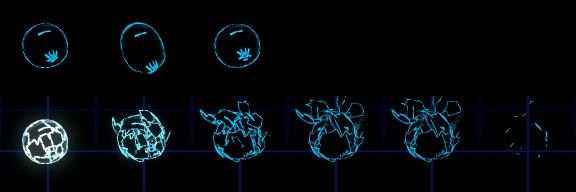
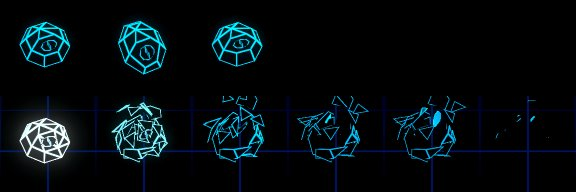
feat(champions): the slime's mesh designed for the edge look: the vendor's smooth dome, which the trailer drew as a soft rim with a lashed eye (a bubble or one of the game's rings), rebuilt as a low-poly blob of eight sides with every edge drawn, sagging over a base tucked under its bulge and closin

diff --git a/rhythm_champions/tools/recipes/monster/slime.py b/rhythm_champions/tools/recipes/monster/slime.py
@@ -1,0 +1,217 @@
+"""The slime (ps-6y2.32): the vendor's smooth dome rebuilt as a low-poly blob that looks up with one big eye.
+
+The trailer's drawing of the vendor slime has no facets: its dome's 470 even triangles never crease past 24 degrees,
+so it draws as a soft rim (a bubble, an egg or one of the game's rings) with the eye socket's fan of creases as
+radiating lashes (a sun icon at game size), and nothing says creature unless a slime faces the camera. What changes:
+
+- The body: eight sides, every edge drawn (a true wireframe), 1.5 m across and 0.9 m tall. It sags: widest low down,
+  over a base tucked under it, so its lower outline is a bulge and no upright band reads as a pot or a jelly mould;
+  it narrows to a shoulder ring and closes under a crown, a face in front and a lopsided corner behind, rather than
+  an apex, whose spokes read as an umbrella or a spider web from the game camera. It is 10% longer behind, where the
+  vendor's body drags.
+- The face: one quiet panel on the top front, tilted 55 degrees up, so the game camera sees the eye from every
+  side and not only when a slime faces it. The eye is an almond lens 0.53 m across (a third of the body, more than
+  twice the vendor's eye), drawn by its rim alone, with a raised slit pupil whose sides fill it in at game size. It
+  is printed on the face: each of its vertices blends the face's corners' weights, so it follows the face's hop,
+  drag and squint without sinking or sliding.
+- Vertex normals lean up, so the big facets turned across the view stay dark rather than lighting whole in the
+  fresnel rim, and the lines carry the outline.
+- Dropped: the brain and veins inside the dome, which the dark body hides in every view, the vendor's eyeball and
+  its lids, and the bottom: tucked under the bulge, it is out of every view, and its fan only drew spokes in the
+  shatter.
+
+88 triangles at every LOD, where the vendor's are 1,428, 767 and 384, skinned to the vendor's body bones (root,
+drag, top and eye region) from its nearest vertices, so the slime moves with the vendor rig and clips.
+
+Source: Magic Pig Games' Slime_LP.prefab (sha256 b288527883abb23512cb8f31d5206d11f025527683d52b657ae63ad7bf1ac92d)
+and Slime_LP.fbx (41162a2653ba20e6a65565640b3c51a475df2c69387b9bb5f113c66ad4830d2e), as manifest.json lists them.
+No Blender: numpy only. Bake: `just champions-tool monster bake slime`; review: `just champions-tool monster review
+slime` (and `--look trailer`).
+"""
+
+from __future__ import annotations
+
+import math
+from itertools import pairwise
+
+import numpy as np
+
+from champions_tools.monster import Mesh, Source
+
+SIDES = 8  # a facet column faces forward, under the eye
+AXIS = (0.0, -0.24)  # the vendor dome's axis (x, z); its eye looks along +z
+RINGS = [(0.0, 0.62), (0.21, 0.78), (0.59, 0.58)]  # (height, radius): the base tucked under, the bulge, the shoulder
+DRAG = 0.10  # rings this much longer straight behind
+CROWN_FRONT = (0.90, 0.10, 0.26)  # the face's top edge: height, forward of the axis, half its width
+CROWN_BACK = (0.81, -0.30, 0.08)  # the crown's back corner: height, forward of the axis, to the right
+NORMAL_LEAN = 0.35  # a vertex normal's outward share against up
+
+EYE_RADIUS = 0.28
+EYE_ASPECT = 0.62  # its height to its width: an almond
+EYE_RISE, SLIT_RISE = 0.05, 0.03  # the lens's face over the body's, the slit's over the lens's
+BODY_BONES = ("slime_rig_root", "slime_rig_drag", "slime_rig_top", "slime_eye_region")
+
+
+class Builder:
+    """Convex polygons over shared vertices; each polygon's outline draws unless the edge is hushed."""
+
+    def __init__(self) -> None:
+        self.points: list[np.ndarray] = []
+        self.eye: list[bool] = []
+        self.polys: list[list[int]] = []
+        self.quiet: set[tuple[int, int]] = set()
+
+    def vert(self, p, eye: bool = False) -> int:
+        self.points.append(np.asarray(p, dtype=np.float64))
+        self.eye.append(eye)
+        return len(self.points) - 1
+
+    def poly(self, *idx: int) -> None:
+        self.polys.append(list(idx))
+
+    def hush(self, a: int, b: int) -> None:
+        self.quiet.add((min(a, b), max(a, b)))
+
+    def triangles(self) -> tuple[np.ndarray, np.ndarray]:
+        """Each polygon as a fan, and each triangle's edge flags (1 for the edge opposite a corner)."""
+        def key(a: int, b: int) -> tuple[int, int]:
+            return min(a, b), max(a, b)
+
+        tris, flags = [], []
+        for poly in self.polys:
+            n = len(poly)
+            outline = {key(poly[i], poly[(i + 1) % n]) for i in range(n)} - self.quiet
+            for i in range(1, n - 1):
+                t = (poly[0], poly[i], poly[i + 1])
+                tris.append(t)
+                flags.append([int(key(t[1], t[2]) in outline), int(key(t[2], t[0]) in outline),
+                              int(key(t[0], t[1]) in outline)])
+        return np.array(tris, dtype=np.int32), np.array(flags, dtype=np.uint8)
+
+
+def body(b: Builder) -> list[int]:
+    """The base, bulge and shoulder rings and the crown over them, open underneath; the face's four corners."""
+    def point(y: float, r: float, theta: float) -> np.ndarray:
+        r *= 1 + DRAG * max(0.0, -math.cos(theta))
+        return np.array([AXIS[0] + r * math.sin(theta), y, AXIS[1] + r * math.cos(theta)])
+
+    rings = [[b.vert(point(y, r, (j + 0.5) * 2 * math.pi / SIDES)) for j in range(SIDES)] for y, r in RINGS]
+    for lo, hi in pairwise(rings):
+        for j in range(SIDES):
+            k = (j + 1) % SIDES
+            b.poly(lo[j], lo[k], hi[k], hi[j])
+    # no base: it is tucked under the bulge out of every view, and its fan only drew spokes in the shatter
+    s = rings[-1]  # s[0] front right, round to s[7] front left
+    y, z, w = CROWN_FRONT
+    fl = b.vert((AXIS[0] - w, y, AXIS[1] + z))
+    fr = b.vert((AXIS[0] + w, y, AXIS[1] + z))
+    y, z, x = CROWN_BACK
+    back = b.vert((AXIS[0] + x, y, AXIS[1] + z))
+    b.poly(s[7], s[0], fr, fl)  # the face, one quiet panel with the triangles beside it
+    b.hush(s[0], fr)
+    b.hush(s[7], fl)
+    b.poly(s[0], s[1], fr)
+    b.poly(s[1], s[2], back, fr)
+    for j in range(2, 5):
+        b.poly(s[j], s[j + 1], back)
+    b.poly(s[5], s[6], fl, back)
+    b.poly(s[6], s[7], fl)
+    b.poly(fr, back, fl)  # the crown
+    return [s[7], s[0], fr, fl]
+
+
+def eye(b: Builder, face: list[int]) -> None:
+    """An almond lens on the face (only its rim draws) and a raised slit pupil: two closed shapes."""
+    corners = np.array([b.points[i] for i in face])
+    side = np.array([1.0, 0.0, 0.0])
+    up = (corners[2] + corners[3]) / 2 - (corners[0] + corners[1]) / 2
+    up /= np.linalg.norm(up)
+    normal = np.cross(side, up)
+    centre = corners.mean(axis=0)
+    lens = centre + EYE_RISE * normal
+
+    def loop(c: np.ndarray, rx: float, ry: float, count: int = 8) -> list[int]:
+        return [b.vert(c + rx * math.cos(a) * side + ry * math.sin(a) * up, eye=True)
+                for a in (2 * math.pi * i / count for i in range(count))]
+
+    base = loop(centre, EYE_RADIUS, EYE_RADIUS * EYE_ASPECT)
+    rim = loop(lens, EYE_RADIUS * 0.94, EYE_RADIUS * EYE_ASPECT * 0.9)
+    for i in range(8):
+        j = (i + 1) % 8
+        b.poly(base[i], base[j], rim[j], rim[i])
+        b.hush(base[i], base[j])
+        b.hush(base[i], rim[i])
+    b.poly(*reversed(base))
+    # the slit, a tall diamond: the lens's face joins each rim vertex to the slit's nearest corner, quietly
+    tall = EYE_RADIUS * EYE_ASPECT * 0.8
+    tips = [tall * up, -EYE_RADIUS * 0.13 * side, -tall * up, EYE_RADIUS * 0.13 * side]
+    slit = [b.vert(lens + t, eye=True) for t in tips]
+    for i in range(8):
+        j = (i + 1) % 8
+        ci = min(slit, key=lambda k: np.linalg.norm(b.points[k] - b.points[rim[i]]))
+        cj = min(slit, key=lambda k: np.linalg.norm(b.points[k] - b.points[rim[j]]))
+        if ci == cj:
+            b.poly(rim[i], rim[j], ci)
+        else:
+            b.poly(rim[i], rim[j], cj, ci)
+        b.hush(rim[i], ci)
+        b.hush(rim[j], cj)
+    raised = [b.vert(lens + SLIT_RISE * normal + 0.8 * t, eye=True) for t in tips]
+    for i in range(4):
+        j = (i + 1) % 4
+        b.poly(slit[i], slit[j], raised[j], raised[i])
+    b.poly(*raised)
+
+
+def skin(source: Source, points: np.ndarray, eye: list[bool], face: list[int]) -> tuple[np.ndarray, np.ndarray]:
+    """Each vertex's four bones. The body's blend the nearest vendor body vertices' weights by inverse distance, kept to
+    the body's bones (no lid or eye bone pulls them). The eye is printed on the face: each of its vertices blends the
+    face's four corners' weights by where it lies on the face, so it follows the face in every pose."""
+    part = source.part("Slime:Slime")
+    vp = source.positions[part.first:part.first + part.count].astype(np.float64)
+    vb = source.bones[part.first:part.first + part.count]
+    vw = source.weights[part.first:part.first + part.count].astype(np.float64)
+    allowed = np.zeros(len(source.bone_names), dtype=bool)
+    allowed[[source.bone(n) for n in BODY_BONES]] = True
+    dense = np.zeros((len(points), len(source.bone_names)))
+    for i, p in enumerate(points):
+        if eye[i]:
+            continue
+        d = np.linalg.norm(vp - p, axis=1)
+        for v in np.argsort(d)[:8]:
+            np.add.at(dense[i], vb[v], vw[v] / (d[v] + 0.02))
+        dense[i][~allowed] = 0
+        dense[i] /= dense[i].sum()
+    bl, br, tr, tl = (points[i] for i in face)
+    up = (tl + tr) / 2 - (bl + br) / 2
+    for i in np.flatnonzero(eye):
+        v = np.clip(np.dot(points[i] - (bl + br) / 2, up) / np.dot(up, up), 0, 1)
+        left, right = bl + v * (tl - bl), br + v * (tr - br)
+        u = np.clip((points[i][0] - left[0]) / (right[0] - left[0]), 0, 1)
+        dense[i] = ((1 - u) * (1 - v) * dense[face[0]] + u * (1 - v) * dense[face[1]] + u * v * dense[face[2]]
+                    + (1 - u) * v * dense[face[3]])
+    bones = np.argsort(-dense, axis=1)[:, :4].astype(np.int32)
+    weights = np.take_along_axis(dense, bones, axis=1)
+    return bones, (weights / weights.sum(axis=1, keepdims=True)).astype(np.float32)
+
+
+def normals(points: np.ndarray) -> np.ndarray:
+    """Leaning up: the rim weighs a facet's own normal more, but these keep a big facet turned across the view from
+    lighting whole."""
+    out = points - np.array([AXIS[0], 0.0, AXIS[1]])
+    out[:, 1] = 0
+    out /= np.maximum(np.linalg.norm(out, axis=1, keepdims=True), 1e-6)
+    n = NORMAL_LEAN * out + np.array([0.0, 1.0, 0.0])
+    return (n / np.linalg.norm(n, axis=1, keepdims=True)).astype(np.float32)
+
+
+def build(source: Source) -> Mesh:
+    b = Builder()
+    face = body(b)
+    eye(b, face)
+    points = np.array(b.points)
+    triangles, edges = b.triangles()
+    bones, weights = skin(source, points, b.eye, face)
+    mesh = Mesh(points.astype(np.float32), triangles, bones, weights, normals=normals(points))
+    mesh.edges = edges
+    return mesh

diff --git a/rhythm_champions/evidence/monsters/slime/README.md b/rhythm_champions/evidence/monsters/slime/README.md
@@ -3,10 +3,126 @@
 Written by `champions monster review slime` and `champions monster review slime --look trailer` (plan.md,
 Rendering > The edge look). The sheets are for judging by eye; nothing here passes or fails.
 
-- The default look draws the vendor mesh; `--look trailer` draws the vendor mesh exactly as the neon edge trailer did.
+- The default look draws its recipe, tools/recipes/monster/slime.py; `--look trailer` draws the vendor mesh exactly as the neon edge trailer did.
 - The camera is the game's (60 degrees down, 23 m, 40 degree field), each cell at a 1080-row frame's pixel density, the type in its palette colour with the game's post.
 - `default-far.jpg`, `default-game.jpg`, `default-near.jpg`: the default look at twice, once and half the game camera's distance, the poses idle, walk, attack, then the shatter 0, 0.08, 0.2, 0.4, 0.9, 1.6 s after a blow away from the camera.
 - `default-crowd.jpg`: a few dozen walking over the grid at the game camera (a 960 by 540 crop).
+- `trailer-far.jpg`, `trailer-game.jpg`, `trailer-near.jpg`: the trailer look at twice, once and half the game camera's distance, the poses idle, walk, attack, then the shatter 0, 0.08, 0.2, 0.4, 0.9, 1.6 s after a blow away from the camera.
+- `trailer-crowd.jpg`: a few dozen walking over the grid at the game camera (a 960 by 540 crop).
 - `compare.jpg`: `--look trailer` on the left, the default on the right, the game-size poses over the crowd.
 
-Numbers (diagnostics only): LOD triangles 1428/767/384 in the default look (the trailer's 1428/767/384), 27 shards, 8 bones, standing 0.909 m.
+Numbers (diagnostics only): LOD triangles 88/88/88 in the default look (the trailer's 1428/767/384), 27 shards, 8 bones, standing 0.911 m.
+
+## The recipe
+
+The slime (ps-6y2.32): the vendor's smooth dome rebuilt as a low-poly blob that looks up with one big eye.
+
+The trailer's drawing of the vendor slime has no facets: its dome's 470 even triangles never crease past 24 degrees,
+so it draws as a soft rim (a bubble, an egg or one of the game's rings) with the eye socket's fan of creases as
+radiating lashes (a sun icon at game size), and nothing says creature unless a slime faces the camera. What changes:
+
+- The body: eight sides, every edge drawn (a true wireframe), 1.5 m across and 0.9 m tall. It sags: widest low down,
+  over a base tucked under it, so its lower outline is a bulge and no upright band reads as a pot or a jelly mould;
+  it narrows to a shoulder ring and closes under a crown, a face in front and a lopsided corner behind, rather than
+  an apex, whose spokes read as an umbrella or a spider web from the game camera. It is 10% longer behind, where the
+  vendor's body drags.
+- The face: one quiet panel on the top front, tilted 55 degrees up, so the game camera sees the eye from every
+  side and not only when a slime faces it. The eye is an almond lens 0.53 m across (a third of the body, more than
+  twice the vendor's eye), drawn by its rim alone, with a raised slit pupil whose sides fill it in at game size. It
+  is printed on the face: each of its vertices blends the face's corners' weights, so it follows the face's hop,
+  drag and squint without sinking or sliding.
+- Vertex normals lean up, so the big facets turned across the view stay dark rather than lighting whole in the
+  fresnel rim, and the lines carry the outline.
+- Dropped: the brain and veins inside the dome, which the dark body hides in every view, the vendor's eyeball and
+  its lids, and the bottom: tucked under the bulge, it is out of every view, and its fan only drew spokes in the
+  shatter.
+
+88 triangles at every LOD, where the vendor's are 1,428, 767 and 384, skinned to the vendor's body bones (root,
+drag, top and eye region) from its nearest vertices, so the slime moves with the vendor rig and clips.
+
+Source: Magic Pig Games' Slime_LP.prefab (sha256 b288527883abb23512cb8f31d5206d11f025527683d52b657ae63ad7bf1ac92d)
+and Slime_LP.fbx (41162a2653ba20e6a65565640b3c51a475df2c69387b9bb5f113c66ad4830d2e), as manifest.json lists them.
+No Blender: numpy only. Bake: `just champions-tool monster bake slime`; review: `just champions-tool monster review
+slime` (and `--look trailer`).
+
+## Notes
+
+ps-6y2.32, by the monster-mesh-design skill. The default look draws the recipe's mesh: five blind critiques judged it
+the better read at the in-game size and in the crowd. `--look trailer` is unchanged (the vendor mesh).
+
+### The trailer's drawing of the vendor mesh
+
+The vendor slime is a smooth dome (1.43 m across, 0.9 m tall, 470 even triangles) with a dragging back, a small
+eyeball on its own bone in a socket of lids, and a brain and veins inside that the dark body always hides. No crease
+on the dome passes 24 degrees, so the trailer's drawing has no facets:
+
+- the outline is the fresnel rim, a soft band that thickens and breaks into short blotches where the dome's even
+  triangles turn across the view: a bubble, an egg, or one of the game's rings;
+- the only inner lines are the eye socket's fan of creases, drawn as radiating lashes (a sun icon at game size, or
+  legs: "ticks" in a crowd), and one stray arc on the crown that reads as a highlight;
+- in the crowd the bodies separate cleanly as eggs or jellybeans, and only those facing the camera show an eye;
+- its shatter: zigzag crack strokes inside a round rim that stays standing after the break.
+
+What names it: a soft round blob on the ground, one eye, the stretch into an egg as it moves (the vendor's drag and
+top bones, which the new mesh keeps).
+
+### What was tried
+
+Each by `champions monster review slime --out <scratch>`, judged at game size and in the crowd:
+
+- A dome of rings and an apex (ten sides, three rings): a 3D wireframe, but from the game camera the apex's spokes
+  and the rings read as an umbrella, a wheel or a spider web, a range ring with spokes. Every apex tried since (a
+  gumdrop's peak, a drop's tip) did the same.
+- The meridians' pole turned forward onto the eye: lanterns or seed pods, and in a crowd a lattice.
+- The vendor dome decimated in Blender (40 symmetric triangles): the cleanest shatter, but "a twenty-sided die or a
+  crystal".
+- A flared skirt with drips (asked for by three critiques): from above, the skirt, waist and shoulder rings nest
+  into concentric polygons (a rose, a web) and the crowd turns back into a net. The base is tucked under the bulge
+  instead, so the bottom tier is out of view.
+- A soft peak over the crown, and rings made slightly uneven: the peak's three lines read as a gem's cut, and the
+  unevenness doesn't show at game size.
+- Big facets turned across the view lit whole in the fresnel rim (the shader weighs the facet's normal 60%): the
+  vertex normals lean up, which keeps every facet dark.
+- The eye: a lens on its own bone stuck out as a nut, or sank, when the body moved apart from the vendor's eye bone;
+  skinned vertex by vertex it stretched into a sliver in the walk. It is now printed on its face panel by the
+  corners' weights, standing 5 cm off it so the panel's fold never covers it.
+
+### Blind critiques
+
+Fresh agents given only the sheets (far, game and near poses with the shatter, and the crowd), labelled at random,
+no docs, no recipe, no numbers, asked the skill's question with the slime named.
+
+1. Rings and a ridge top, the eye low on the front (new mesh A): "A is in the right style but looks like a gem; B
+   looks soft but isn't in the style", and "at game size A reads more as a creature; in the crowd B separates
+   better". Of the eye: "a small hexagonal nut that sticks out sideways ... in the crowd the bodies read as grenades
+   or acorns". Done: the eye moved up onto the top front, larger.
+2. Four at once, the trailer's among them: the ridged mesh ranked first and the trailer's second ("a hazy,
+   stair-stepped rim, a floating highlight arc and an eyelash starburst: scratches with no facets"). Of the best:
+   "the bottom ring of tall upright panels ... look like a jelly mold or a lampshade", "too many lines at game
+   size", "the eye sits too low". Done: the base tucked under the bulge, the eye on a face tilted up.
+3. The tucked base and the high eye (new mesh B): "B is the right base ... It reads as a creature at game size and
+   in the crowd much better than A. But it looks like a gem, a geodesic dome, a soccer ball or a turtle shell", and
+   "the hexagonal socket with nested rings reads as a bolt head or nozzle". Done: the face as one quiet panel and an
+   almond eye.
+4. The almond eye with a brow (new mesh B): "B is the right direction and reads better at game size and in the
+   crowd. A doesn't reach the target style at all." Of the eye: "reads as a rose, a spiral or a cut gem. The
+   offset, skewed octagon rings don't close into clean loops ... drop the second ring". Done: the brow dropped,
+   leaving two closed shapes, the almond and the slit.
+5. The mesh as delivered but for the last two changes (new mesh A): "A is the one in the style. It is a closed
+   low-poly shell, its edges meet into whole facets, it is dark inside, and the outline holds at every size and in
+   the crowd ... A reads better at game size and in the crowd: every body is clear and countable. But neither reads
+   as a slime. A looks like a cut gem or a turtle shell." It asked for an eye of 35-40% of the body's width and
+   said "the base's triangle fan shows as spokes through the body" in the shatter. Done: the eye from 31% to 35%
+   of the width, the bottom dropped. Not done: its gumdrop with a peak and uneven rings (see What was tried).
+
+### Still weak
+
+- It reads as a creature (every critique) but more as a faceted gem or shell than as goo: the cost of a low-poly
+  blob drawn by every edge. Its eye, its sag and its motion carry the slime.
+- The hop: idle, walk and attack differ little at game size. The vendor's clips stretch it into an egg in the walk
+  and squint the eye in the attack; a squash on the beat's landing would be the crowd's or a clip's work, not the
+  mesh's.
+- Inner lines are as bright as the outline (the shader's gains, the same in both looks), so touching bodies in a
+  dense crowd can still merge into a net.
+- The shards: open slivers and V's from the shatter's crack outlines, and one seen edge-on reads as a bright slab,
+  in both looks (the shard baker, not the mesh).

diff --git a/rhythm_champions/evidence/operator-pending.md b/rhythm_champions/evidence/operator-pending.md
@@ -29,3 +29,4 @@ row done (or files a bead) after checking.
 | The hero and the bosses in the trailer's edge look in a window: `just champions-play --windowed --fixed-time --capture-stills captures/hero-bosses --stills-scenes hero,duel-ogre,duel-dragon,duel-ogre-death,duel-dragon-death` (about 2 minutes) beside `captures/trailer-action-edge.mp4`: the knight reads as the trailer's (white lines, chest glow, the crystal blade flaring on each blow), the brightest thing on screen; its legs run without sliding under a torso turned to its swings, each dash pose reads, it flashes red once when hurt and breaks into white shards; the Fat Ogre and the dragon land whole in the frame and shatter the skeletons outward, every move plays into its telegraph's landing, and each boss's death throws its pieces away from the blow as the trailer's dragon did ([evidence](ps-6y2.29/README.md)) | A window on screen; motion a still can't show | ps-6y2.29 | pending |
 | Structures in a window: `just champions --file <song>`, then with `--look trailer`: the cottages, huts, towers, walls, fences, pines, trees and rocks read as neon wireframes in the zone's key over a dark fill, apart from the monsters, their lines flaring as the beat wave passes and taking each new zone; a dash through a fence, a tree or a rock shatters it on the frame it lands into hot, outlined chunks thrown along the dash, which clatter down and sink about three seconds later ([evidence](structures/README.md)) | A window on screen and judging the look in motion | ps-6y2.30 | pending |
 | The skeleton's designed mesh against the trailer's: `just champions --file <song>`, then again with `--look trailer`, watching the cyan knights with round shields (or the sheets and `compare.jpg` in [monsters/skeleton](monsters/skeleton/README.md)). The new mesh should read as the same knight with a faceted helm, a broad sword with a crossguard, a flat dark shield and fewer short strokes at the joints; keep it, or delete `tools/recipes/monster/skeleton.py` to draw the vendor mesh again | Judging the look in motion, and the operator's eye | ps-6y2.31 | pending |
+| The slime's designed mesh against the trailer's: `just champions --file <song>`, then again with `--look trailer`, watching the cyan blobs (or the sheets and `compare.jpg` in [monsters/slime](monsters/slime/README.md)). The new mesh should read as a low-poly blob of a few big dark facets looking up with one almond eye and a slit pupil, from every side, where the trailer's is a soft bubble with a lashed eye on its front; check that it still reads as soft goo hopping on the beat, not a gem or a rock; keep it, or delete `tools/recipes/monster/slime.py` to draw the vendor mesh again | Judging the look in motion, and the operator's eye | ps-6y2.32 | pending |

diff --git a/.agents/skills/monster-mesh-design/SKILL.md b/.agents/skills/monster-mesh-design/SKILL.md
@@ -188,12 +188,27 @@ Techniques that tend to work:
 - **Keep big facets from turning far from the camera**: a large facet seen
   at a grazing angle catches the fresnel rim as a lit patch (the skeleton's
   domed shield, and a ridged breastplate tried and dropped). Thin plates, and
-  facets facing up toward the game camera, stay dark.
+  facets facing up toward the game camera, stay dark. Where a big facet must
+  turn away, give its vertices normals that lean up (`Mesh.normals`): the
+  rim mixes them with the facet's own (the slime's sides).
+- **Mind the camera's 60 degrees on a round body**: seen from above, rings
+  around a vertical axis nest into a target and an apex's spokes into an
+  umbrella or a spider web. The slime closes under a crown and a face
+  instead, and hides its lowest tier under a bulge.
+- **Turn what names the type toward the camera**: a feature on the top
+  front, tilted about 55 degrees up, shows from every side in a crowd, not
+  only when the monster faces the camera (the slime's eye).
+- **Print a small feature on its panel**: give each of its vertices the
+  panel corners' weights, blended by where it lies, so it follows the panel
+  through every clip instead of stretching or sinking (the slime's eye).
 
 `tools/recipes/monster/skeleton.py` is a worked example: vendor parts kept,
 dropped and rebuilt from primitives skinned rigidly to one bone each, and
 the trailer's 24-degree creases flagged by the recipe itself (`creases()`),
 so the mesh is drawn as designed at every distance.
+`tools/recipes/monster/slime.py` is the other kind: a body built from
+scratch as polygons, every edge it designs drawn (`mesh.edges`), and some
+hushed so a panel stays quiet.
 
 Keep the vendor rig, bind poses and clips. For skin transfer, partitioning,
 stream compaction and bounds, follow
